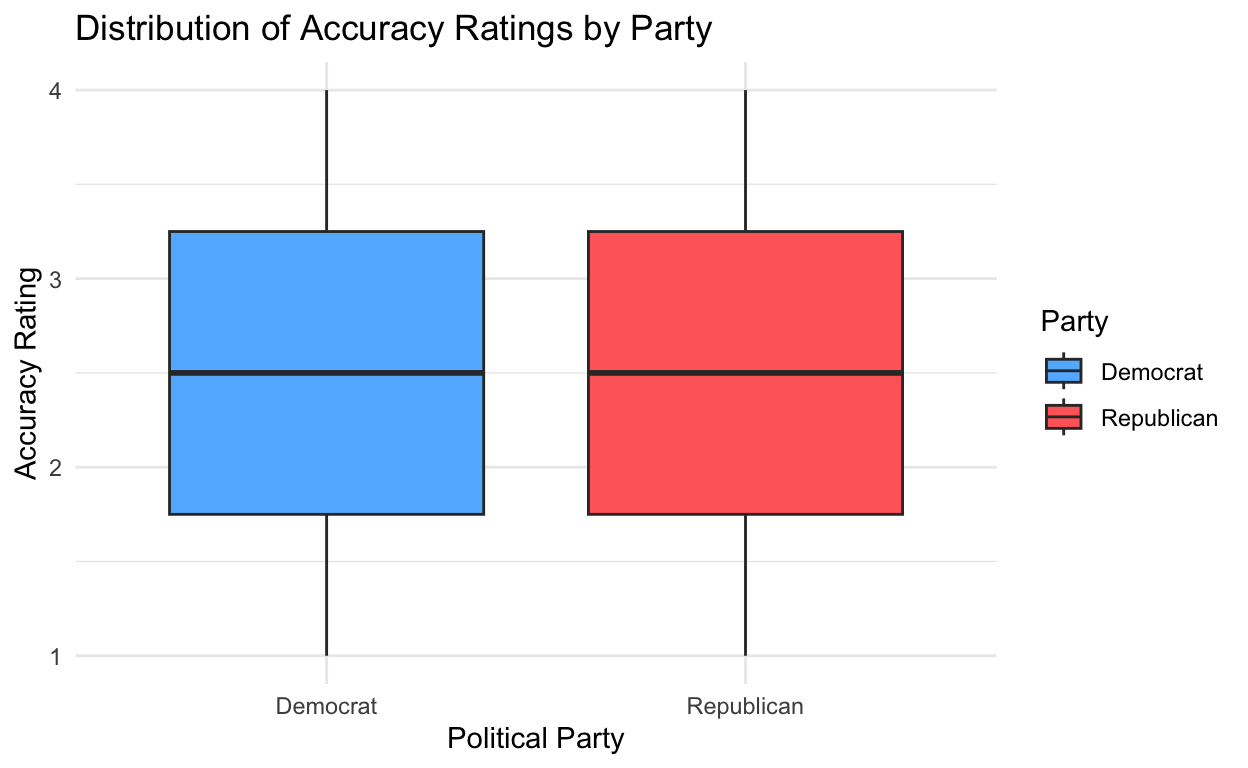
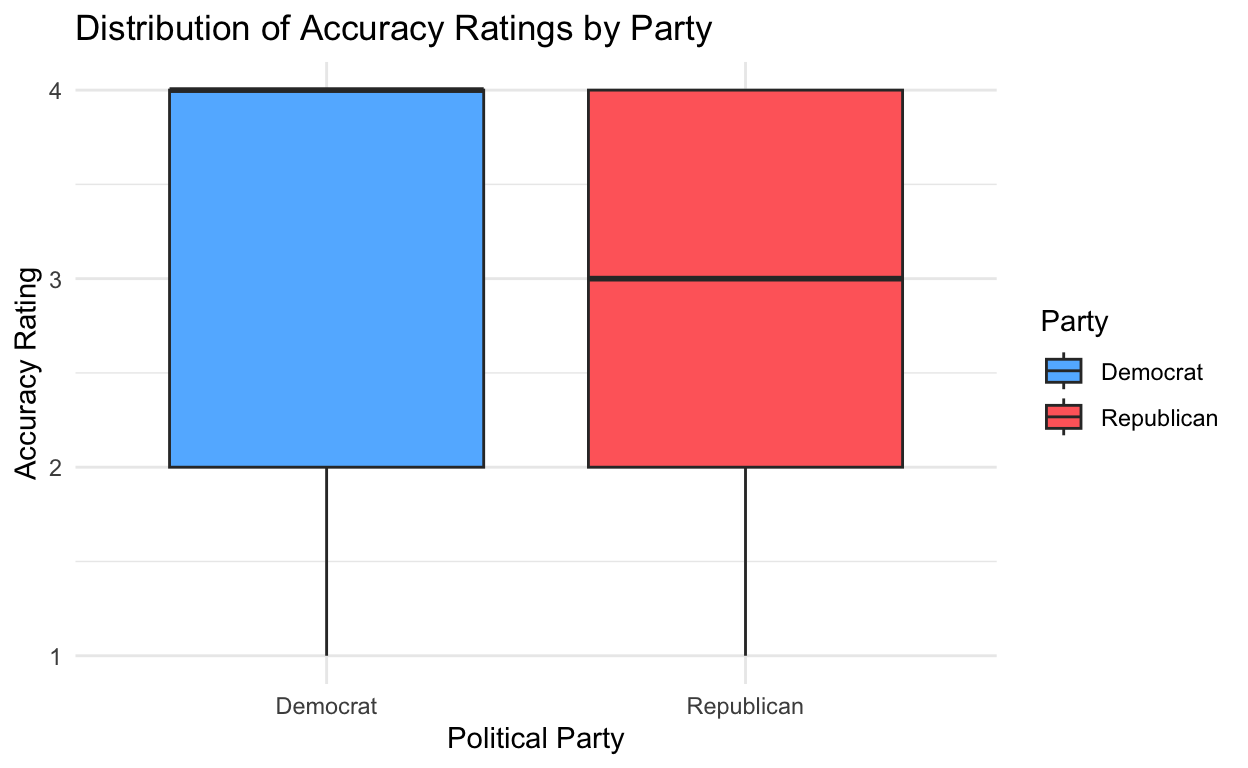
12/11 Updated Boxplot

diff --git a/index.html b/index.html
@@ -1594,21 +1594,22 @@ code span.wa { color: #5e5e5e; font-style: italic; } /* Warning */
 <span><span class='va'>party_accuracy</span> <span class='op'>&lt;-</span> <span class='va'>parties</span> <span class='op'>|&gt;</span></span>
 <span>  <span class='fu'><a href='https://dplyr.tidyverse.org/reference/group_by.html'>group_by</a></span><span class='op'>(</span><span class='va'>Party</span>, <span class='va'>accuracy_rating</span><span class='op'>)</span>  <span class='op'>|&gt;</span></span>
 <span>  <span class='fu'><a href='https://dplyr.tidyverse.org/reference/summarise.html'>summarize</a></span><span class='op'>(</span>n <span class='op'>=</span> <span class='fu'><a href='https://dplyr.tidyverse.org/reference/context.html'>n</a></span><span class='op'>(</span><span class='op'>)</span><span class='op'>)</span> <span class='op'>|&gt;</span> </span>
-<span>  <span class='fu'><a href='https://dplyr.tidyverse.org/reference/mutate.html'>mutate</a></span><span class='op'>(</span>n <span class='op'>=</span> <span class='fu'><a href='https://dplyr.tidyverse.org/reference/if_else.html'>if_else</a></span><span class='op'>(</span><span class='va'>Party</span> <span class='op'>==</span> <span class='st'>"Democrat"</span>, <span class='va'>n</span><span class='op'>/</span><span class='fl'>471</span>, <span class='va'>n</span><span class='op'>/</span><span class='fl'>666</span><span class='op'>)</span><span class='op'>)</span> </span>
+<span>  <span class='fu'><a href='https://dplyr.tidyverse.org/reference/mutate.html'>mutate</a></span><span class='op'>(</span>p <span class='op'>=</span> <span class='va'>n</span> <span class='op'>/</span> <span class='fu'><a href='https://rdrr.io/r/base/sum.html'>sum</a></span><span class='op'>(</span><span class='va'>n</span><span class='op'>)</span><span class='op'>)</span></span>
+<span>  <span class='co'># mutate(n = if_else(Party == "Democrat", n/471, n/666))</span></span>
 <span><span class='va'>party_accuracy</span></span></code></pre>
 </div>
-<pre><code># A tibble: 8 × 3
+<pre><code># A tibble: 8 × 4
 # Groups:   Party [2]
-  Party      accuracy_rating      n
-  &lt;chr&gt;                &lt;dbl&gt;  &lt;dbl&gt;
-1 Democrat                 1 0.246 
-2 Democrat                 2 0.0467
-3 Democrat                 3 0.144 
-4 Democrat                 4 0.563 
-5 Republican               1 0.144 
-6 Republican               2 0.123 
-7 Republican               3 0.254 
-8 Republican               4 0.479 </code></pre>
+  Party      accuracy_rating     n      p
+  &lt;chr&gt;                &lt;dbl&gt; &lt;int&gt;  &lt;dbl&gt;
+1 Democrat                 1   116 0.246 
+2 Democrat                 2    22 0.0467
+3 Democrat                 3    68 0.144 
+4 Democrat                 4   265 0.563 
+5 Republican               1    96 0.144 
+6 Republican               2    82 0.123 
+7 Republican               3   169 0.254 
+8 Republican               4   319 0.479 </code></pre>
 </div>
 <p>Now that the data is organized by party and accuracy rating, this is a bar graph comparing the results.</p>
 <div class="layout-chunk" data-layout="l-body">
@@ -1663,21 +1664,21 @@ code span.wa { color: #5e5e5e; font-style: italic; } /* Warning */
 <div class="sourceCode">
 <pre class="sourceCode r"><code class="sourceCode r"><span><span class='va'>parties</span> <span class='op'>&lt;-</span> <span class='va'>parties</span> <span class='op'>|&gt;</span></span>
 <span>  <span class='fu'><a href='https://dplyr.tidyverse.org/reference/mutate.html'>mutate</a></span><span class='op'>(</span>PartyBinary <span class='op'>=</span> <span class='fu'><a href='https://dplyr.tidyverse.org/reference/if_else.html'>if_else</a></span><span class='op'>(</span><span class='va'>Party</span> <span class='op'>==</span> <span class='st'>"Republican"</span>, <span class='fl'>1</span>, <span class='fl'>0</span><span class='op'>)</span><span class='op'>)</span></span>
-<span><span class='va'>model</span> <span class='op'>&lt;-</span> <span class='fu'><a href='https://rdrr.io/r/stats/lm.html'>lm</a></span><span class='op'>(</span><span class='va'>accuracy_rating</span> <span class='op'>~</span> <span class='va'>PartyBinary</span>, data <span class='op'>=</span> <span class='va'>parties</span><span class='op'>)</span></span>
+<span><span class='va'>model</span> <span class='op'>&lt;-</span> <span class='fu'><a href='https://rdrr.io/r/stats/lm.html'>lm</a></span><span class='op'>(</span><span class='va'>accuracy_rating</span> <span class='op'>~</span> <span class='va'>Party</span>, data <span class='op'>=</span> <span class='va'>parties</span><span class='op'>)</span></span>
 <span><span class='fu'><a href='https://rdrr.io/r/base/summary.html'>summary</a></span><span class='op'>(</span><span class='va'>model</span><span class='op'>)</span></span></code></pre>
 </div>
 <pre><code>
 Call:
-lm(formula = accuracy_rating ~ PartyBinary, data = parties)
+lm(formula = accuracy_rating ~ Party, data = parties)
 
 Residuals:
     Min      1Q  Median      3Q     Max 
 -2.0676 -1.0676  0.9324  0.9324  0.9767 
 
 Coefficients:
-            Estimate Std. Error t value Pr(&gt;|t|)    
-(Intercept)  3.02335    0.05355  56.464   &lt;2e-16 ***
-PartyBinary  0.04421    0.06996   0.632    0.528    
+                Estimate Std. Error t value Pr(&gt;|t|)    
+(Intercept)      3.02335    0.05355  56.464   &lt;2e-16 ***
+PartyRepublican  0.04421    0.06996   0.632    0.528    
 ---
 Signif. codes:  0 &#39;***&#39; 0.001 &#39;**&#39; 0.01 &#39;*&#39; 0.05 &#39;.&#39; 0.1 &#39; &#39; 1
 
@@ -1689,7 +1690,7 @@ F-statistic: 0.3994 on 1 and 1135 DF,  p-value: 0.5275</code></pre>
 <p>Observing the resulting p-value of 0.5275, in the context of <span class="math inline">\(\alpha\)</span> value of 0.05, we are unable to reject the null hypothesis and determine a causal relationship between Party Affiliation and Social Media post Accuracy, finding the Party Affiliation to be not statistically significant in predicting Social Media post Accuracy.</p>
 <div class="layout-chunk" data-layout="l-body">
 <div class="sourceCode">
-<pre class="sourceCode r"><code class="sourceCode r"><span><span class='va'>box_plot</span> <span class='op'>&lt;-</span> <span class='va'>party_accuracy</span><span class='op'>|&gt;</span></span>
+<pre class="sourceCode r"><code class="sourceCode r"><span><span class='va'>box_plot</span> <span class='op'>&lt;-</span> <span class='va'>parties</span> <span class='op'>|&gt;</span></span>
 <span>  <span class='fu'><a href='https://ggplot2.tidyverse.org/reference/ggplot.html'>ggplot</a></span><span class='op'>(</span><span class='fu'><a href='https://ggplot2.tidyverse.org/reference/aes.html'>aes</a></span><span class='op'>(</span>x <span class='op'>=</span> <span class='va'>Party</span>, y <span class='op'>=</span> <span class='va'>accuracy_rating</span><span class='op'>)</span><span class='op'>)</span> <span class='op'>+</span></span>
 <span>  <span class='fu'><a href='https://ggplot2.tidyverse.org/reference/geom_boxplot.html'>geom_boxplot</a></span><span class='op'>(</span><span class='fu'><a href='https://ggplot2.tidyverse.org/reference/aes.html'>aes</a></span><span class='op'>(</span>fill <span class='op'>=</span> <span class='va'>Party</span><span class='op'>)</span><span class='op'>)</span> <span class='op'>+</span></span>
 <span>  <span class='fu'><a href='https://ggplot2.tidyverse.org/reference/scale_manual.html'>scale_fill_manual</a></span><span class='op'>(</span>values <span class='op'>=</span> <span class='fu'><a href='https://rdrr.io/r/base/c.html'>c</a></span><span class='op'>(</span><span class='st'>"Democrat"</span> <span class='op'>=</span> <span class='st'>"steelblue1"</span>, <span class='st'>"Republican"</span> <span class='op'>=</span> <span class='st'>"indianred1"</span><span class='op'>)</span><span class='op'>)</span> <span class='op'>+</span></span>
